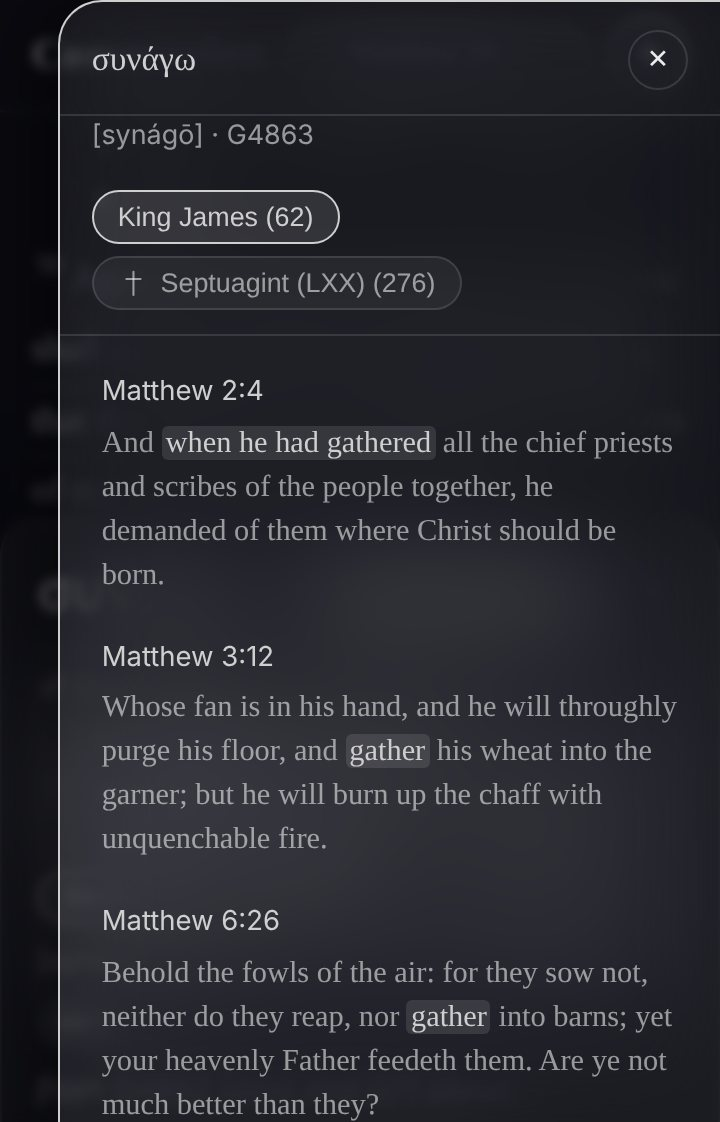
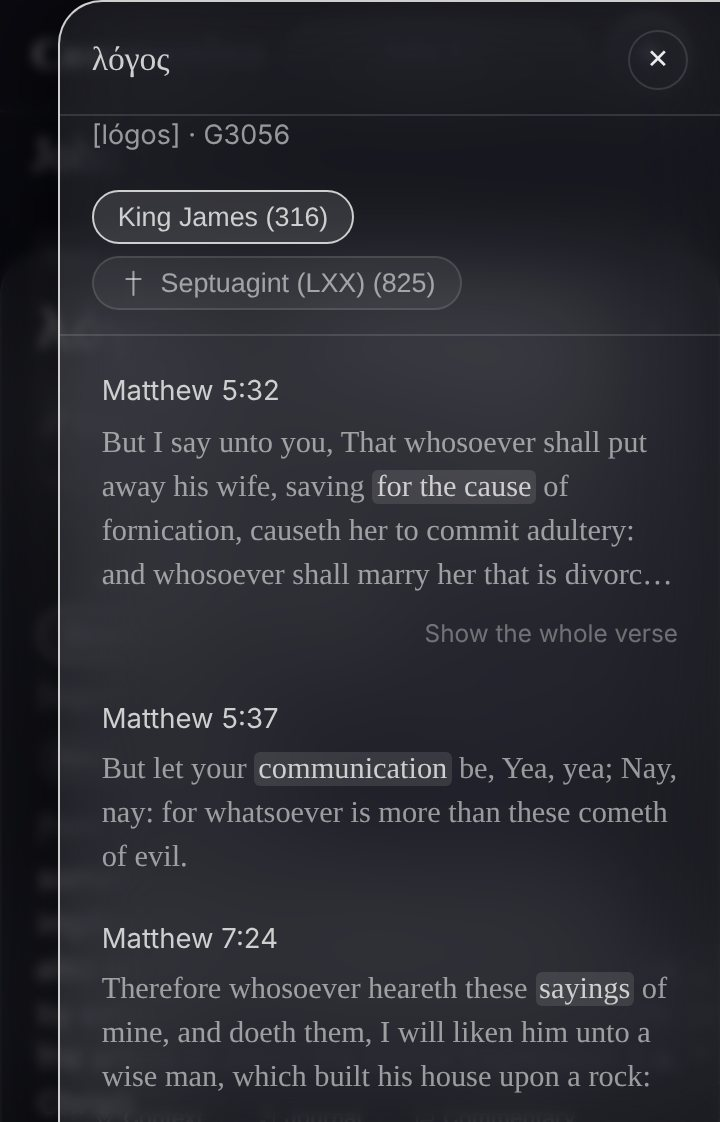
John 1:1 in place of Matthew 18:20, and the AI in the tour
Communion's founding verse was Matthew 18:20, chosen for an app built
around gathering. It is now a place to read and study on your own, so the
verse it stands on is John 1:1, everywhere the old one was:

- The About page opens on it, in the King James and the Reina Valera.
  The keys are verse.founding and verse.foundingRef, not named for a book.
- The tagline goes from "Read the Word. Gather in His name." to "Read the
  Word. Study the Word." (Lee la Palabra. Estudia la Palabra.), in the
  welcome, the tour page, the page metadata and the web app manifest.
- The About footer no longer speaks of two or three gathering.
- New readers' walls and their "Communion" collection start with John
  1:1 instead of Matthew 18:20. Walls and collections already seeded are
  left as they are.
- Both share images are redrawn with the new tagline, and the tour's with
  John 1:1 quoted.
- The README's opening describes the app as it is now.

The tour grows from ten screens to thirteen, with the AI in the three
places it appears: Ask the scholars (Augustine on John 1:1, in
Commentary), Ask about a verse (from Compare) and Illuminated Search. The
reader, study, lexicon and concordance screens are re-shot on John 1:1 to
match, the lexicon and concordance now on logos. All seven are captured
in each theme. The tour page's descriptions and the share text mention
the questions Claude answers.

The AI screens were captured against a stand-in for the API, not Claude
[…]

diff --git a/lib/i18n.tsx b/lib/i18n.tsx
@@ -7,7 +7,7 @@ export type Lang = "en" | "es";
 
 const dictionaries = {
   en: {
-    "app.tagline": "Read the Word. Gather in His name.",
+    "app.tagline": "Read the Word. Study the Word.",
     "nav.reader": "The Word",
     "nav.discover": "Home",
     "settings.title": "Settings",
@@ -225,13 +225,13 @@ const dictionaries = {
       "Read the Word in multiple translations (King James by default, Reina Valera 1909 in Spanish), search it, resize it, and follow it wherever a passage link takes you. Then stay with it: open a word to its original, keep a verse with a note, and walk a plan a day at a time.",
     "tour.share": "Share this demo",
     "tour.shareText":
-      "Take a look at Communion — the whole Bible with real study tools: the Hebrew and Greek, commentary and maps.",
+      "Take a look at Communion — the whole Bible with real study tools: the Hebrew and Greek, commentary and maps, and questions answered by Claude.",
     "welcome.title": "Welcome to Communion",
     "welcome.lede":
       "A Bible app for reading and studying the Word. Here is what it can do — have a look, then step in.",
     "welcome.begin": "Begin reading",
     "welcome.more": "The full story, on the About page →",
-    "about.tourTitle": "A tour, in ten screens",
+    "about.tourTitle": "A tour, in thirteen screens",
     "about.tourHint": "Every screen here is the app itself, not a mockup.",
     "about.tourReader": "The Word",
     "about.tourReaderDesc": "Scripture set like a book, reading on from chapter into chapter.",
@@ -244,6 +244,13 @@ const dictionaries = {
     "about.tourCommentary": "Commentary",
     "about.tourCommentaryDesc":
       "Matthew Henry on every chapter, and Spurgeon’s Treasury of David on the Psalms.",
+    "about.tourScholars": "Ask the scholars",
+    "about.tourScholarsDesc":
+      "Choose Augustine, Luther, Spurgeon or four more, and ask about the passage. Claude answers in his manner.",
+    "about.tourAskVerse": "Ask about a verse",
+    "about.tourAskVerseDesc": "From Compare, ask Claude what a verse means, its setting, or why the translations differ.",
+    "about.tourAiSearch": "Illuminated Search",
+    "about.tourAiSearchDesc": "Describe what you are looking for, and Claude finds the passages, in your own translation.",
     "about.tourMaps": "Maps in context",
     "about.tourMapsDesc":
       "Where the chapter happened, and the places it names — tap one to find its verse.",
@@ -302,7 +309,7 @@ const dictionaries = {
       "Claude can be wrong, and sounds just as sure when it is. Weigh what it says against Scripture, as the Bereans did, and treat it as a companion in study rather than an authority — never as a stand-in for a pastor, or for help when you need it.",
     "about.aiPrivacy":
       "Your questions are sent to Anthropic to be answered. Communion keeps none of them: a conversation lives on your device only for as long as the app is open, unless you save an answer to the verse’s note. All the app writes down is how many questions you asked, and what they cost to answer.",
-    "about.footer": "Built so that two or three — anywhere on earth — can gather in His name.",
+    "about.footer": "Built for time alone with the Word — to read it slowly, and to know the One it speaks of.",
     "discover.title": "Home",
     "discover.tabScripture": "Discover",
     "discover.subtitleScripture":
@@ -611,8 +618,8 @@ const dictionaries = {
     "search.close": "Close results",
     "search.searchedIn":
       "Searched the {name} — this translation is read a chapter at a time and cannot be searched whole.",
-    "verse.matthew": "For where two or three are gathered together in my name, there am I in the midst of them.",
-    "verse.matthewRef": "Matthew 18:20",
+    "verse.founding": "In the beginning was the Word, and the Word was with God, and the Word was God.",
+    "verse.foundingRef": "John 1:1",
     "common.done": "Done",
     "common.close": "Close",
     "common.notNow": "Not now",
@@ -671,7 +678,7 @@ const dictionaries = {
       "Matthew Henry and Spurgeon wrote in English, and their commentary is shown as they wrote it.",
   },
   es: {
-    "app.tagline": "Lee la Palabra. Congrégate en Su nombre.",
+    "app.tagline": "Lee la Palabra. Estudia la Palabra.",
     "nav.reader": "La Palabra",
     "nav.discover": "Inicio",
     "settings.title": "Ajustes",
@@ -891,13 +898,13 @@ const dictionaries = {
       "Lee la Palabra en varias traducciones (King James por defecto, Reina Valera 1909 en español), búscala, ajusta su tamaño y síguela adonde te lleve cada pasaje. Luego quédate en ella: abre una palabra hasta su original, guarda un versículo con una nota y recorre un plan día a día.",
     "tour.share": "Comparte esta demo",
     "tour.shareText":
-      "Mira Communion — la Biblia completa con herramientas de estudio de verdad: el hebreo y el griego, comentario y mapas.",
+      "Mira Communion — la Biblia completa con herramientas de estudio de verdad: el hebreo y el griego, comentario y mapas, y preguntas respondidas por Claude.",
     "welcome.title": "Bienvenido a Communion",
     "welcome.lede":
       "Una aplicación bíblica para leer y estudiar la Palabra. Esto es lo que puede hacer — míralo, y luego entra.",
     "welcome.begin": "Comenzar a leer",
     "welcome.more": "La historia completa, en Acerca de →",
-    "about.tourTitle": "Un recorrido en diez pantallas",
+    "about.tourTitle": "Un recorrido en trece pantallas",
     "about.tourHint": "Cada pantalla es la aplicación misma, no una maqueta.",
     "about.tourReader": "La Palabra",
     "about.tourReaderDesc": "La Escritura compuesta como un libro: la lectura sigue de capítulo en capítulo.",
@@ -910,6 +917,13 @@ const dictionaries = {
     "about.tourCommentary": "Comentario",
     "about.tourCommentaryDesc":
       "Matthew Henry en cada capítulo, y el Tesoro de David de Spurgeon en los Salmos.",
+    "about.tourScholars": "Pregunta a los eruditos",
+    "about.tourScholarsDesc":
+      "Elige a Agustín, Lutero, Spurgeon u otros cuatro, y pregunta sobre el pasaje. Claude responde a su manera.",
+    "about.tourAskVerse": "Pregunta sobre un versículo",
+    "about.tourAskVerseDesc": "Desde Comparar, pregúntale a Claude qué significa un versículo, su contexto o por qué difieren las traducciones.",
+    "about.tourAiSearch": "Búsqueda iluminada",
+    "about.tourAiSearchDesc": "Describe lo que buscas y Claude encuentra los pasajes, en tu propia traducción.",
     "about.tourMaps": "Mapas en contexto",
     "about.tourMapsDesc":
       "Dónde sucedió el capítulo y los lugares que nombra: toca uno para ir a su versículo.",
@@ -969,7 +983,7 @@ const dictionaries = {
       "Claude puede equivocarse, y suena igual de seguro cuando lo hace. Examina lo que dice a la luz de la Escritura, como los de Berea, y tómalo como un compañero de estudio, no como una autoridad; nunca como sustituto de un pastor, ni de la ayuda que necesites.",
     "about.aiPrivacy":
       "Tus preguntas se envían a Anthropic para que sean respondidas. Communion no guarda ninguna: la conversación vive en tu dispositivo solo mientras la app está abierta, salvo que guardes una respuesta en la nota del versículo. Lo único que la app anota es cuántas preguntas hiciste y lo que costó responderlas.",
-    "about.footer": "Creada para que dos o tres — en cualquier lugar del mundo — se congreguen en Su nombre.",
+    "about.footer": "Creada para el tiempo a solas con la Palabra: para leerla despacio y conocer a Aquel de quien habla.",
     "discover.title": "Inicio",
     "discover.tabScripture": "Descubrir",
     "discover.subtitleScripture":
@@ -1278,8 +1292,8 @@ const dictionaries = {
     "search.searchedIn":
       "Se buscó en la {name} — esta traducción se lee capítulo por capítulo y no puede buscarse entera.",
     "search.close": "Cerrar resultados",
-    "verse.matthew": "Porque donde están dos o tres congregados en mi nombre, allí estoy en medio de ellos.",
-    "verse.matthewRef": "Mateo 18:20",
+    "verse.founding": "En el principio era el Verbo, y el Verbo era con Dios, y el Verbo era Dios.",
+    "verse.foundingRef": "Juan 1:1",
     "common.done": "Listo",
     "common.close": "Cerrar",
     "common.notNow": "Ahora no",

diff --git a/app/tour/page.tsx b/app/tour/page.tsx
@@ -2,7 +2,7 @@
 //
 // This is the page the share button hands out. Somebody arriving from a
 // social feed gets the tour without the app asking anything of them first —
-// the wordmark, the ten screens, and a door into the reader. The metadata
+// the wordmark, the thirteen screens, and a door into the reader. The metadata
 // below is most of the point: it is what makes the link unfurl on a feed as
 // a picture of the app instead of a bare URL.
 //
@@ -13,21 +13,21 @@ import type { Metadata } from "next";
 import TourPageBody from "@/components/TourPage";
 
 export const metadata: Metadata = {
-  title: "Communion — a tour in ten screens",
+  title: "Communion — a tour in thirteen screens",
   description:
-    "A Bible app for reading and studying the Word. The whole Bible with word-level study tools, commentary and maps, a journal, reading plans and a private prayer list. See it in ten screens.",
+    "A Bible app for reading and studying the Word. The whole Bible with word-level study tools, commentary and maps, a journal, reading plans and a private prayer list, and questions answered by Claude. See it in thirteen screens.",
   openGraph: {
-    title: "Communion — Read the Word. Gather in His name.",
+    title: "Communion — Read the Word. Study the Word.",
     description:
-      "The whole Bible with word-level study tools, commentary and maps, and a journal for what you find. A tour in ten screens.",
+      "The whole Bible with word-level study tools, commentary and maps, questions answered by Claude, and a journal for what you find. A tour in thirteen screens.",
     images: ["/tour/og.jpg"],
     type: "website",
   },
   twitter: {
     card: "summary_large_image",
-    title: "Communion — Read the Word. Gather in His name.",
+    title: "Communion — Read the Word. Study the Word.",
     description:
-      "The whole Bible with word-level study tools, commentary and maps, and a journal for what you find. A tour in ten screens.",
+      "The whole Bible with word-level study tools, commentary and maps, questions answered by Claude, and a journal for what you find. A tour in thirteen screens.",
     images: ["/tour/og.jpg"],
   },
 };

diff --git a/lib/defaultWall.ts b/lib/defaultWall.ts
@@ -10,8 +10,8 @@ import { WALL_MAX, type WallEntry } from "@/lib/wall";
  * feature in the time it takes to read them — and understands it as something
  * to add to rather than something to set up.
  *
- * These four, and not four at random. Matthew 18:20 is the verse this app is
- * named for and built on. Galatians 6:10 is what the reading is supposed to
+ * These four, and not four at random. John 1:1 is the verse this app is built
+ * on: the Word it is for reading is the One it speaks of. Galatians 6:10 is what the reading is supposed to
  * turn into, as we have opportunity. John 3:16 is the one verse anybody
  * arriving already knows, which makes it the one that says "yes, this is that
  * book". And Philippians 3:13-14 is kept as the run it is, because the
@@ -27,7 +27,7 @@ interface SeedVerse {
 }
 
 export const WALL_VERSES: SeedVerse[] = [
-  { b: 40, c: 18, v: 20 }, // Matthew — where two or three are gathered
+  { b: 43, c: 1, v: 1 }, // John — in the beginning was the Word
   { b: 48, c: 6, v: 10 }, // Galatians — as we have therefore opportunity
   { b: 43, c: 3, v: 16 }, // John — for God so loved the world
   { b: 50, c: 3, v: 13, end: 14 }, // Philippians — I press toward the mark

diff --git a/app/layout.tsx b/app/layout.tsx
@@ -15,18 +15,18 @@ import "./globals.css";
 
 export const metadata: Metadata = {
   metadataBase: new URL("https://communion-mu.vercel.app"),
-  title: "Communion — Read the Word. Gather in His name.",
+  title: "Communion — Read the Word. Study the Word.",
   description:
-    "A Bible app for reading and studying the Word: Scripture in multiple translations and languages, the Hebrew and Greek behind it, a journal and reading plans. Matthew 18:20.",
+    "A Bible app for reading and studying the Word: Scripture in multiple translations and languages, the Hebrew and Greek behind it, a journal and reading plans. John 1:1.",
   openGraph: {
     title: "Communion",
-    description: "Read the Word. Gather in His name.",
+    description: "Read the Word. Study the Word.",
     images: ["/og.png"],
   },
   twitter: {
     card: "summary_large_image",
     title: "Communion",
-    description: "Read the Word. Gather in His name.",
+    description: "Read the Word. Study the Word.",
     images: ["/og.png"],
   },
   appleWebApp: {

diff --git a/components/TourStrip.tsx b/components/TourStrip.tsx
@@ -1,6 +1,6 @@
 "use client";
 
-// The ten-screen tour, as a strip that any page can shelve.
+// The tour, thirteen screens, as a strip that any page can shelve.
 //
 // It began life inside the About page and was pulled out the day the welcome
 // screen wanted it too. One list, one markup, so the two places that show the
@@ -28,6 +28,10 @@ const SLIDES: Array<{ img: string; w: number; h: number; key: string }> = [
   { img: "lexicon", w: 720, h: 772, key: "tourLexicon" },
   { img: "concordance", w: 720, h: 1122, key: "tourConcordance" },
   { img: "commentary", w: 720, h: 1024, key: "tourCommentary" },
+  // the AI, in the three places it appears
+  { img: "scholars", w: 720, h: 1096, key: "tourScholars" },
+  { img: "askverse", w: 720, h: 1096, key: "tourAskVerse" },
+  { img: "aisearch", w: 720, h: 1120, key: "tourAiSearch" },
   { img: "maps", w: 720, h: 1042, key: "tourMaps" },
   { img: "redletters", w: 720, h: 1066, key: "tourRed" },
   { img: "devotional", w: 720, h: 1020, key: "tourDevotional" },

diff --git a/app/manifest.ts b/app/manifest.ts
@@ -5,7 +5,7 @@ export default function manifest(): MetadataRoute.Manifest {
     name: "Communion",
     short_name: "Communion",
     description:
-      "Read the Word. Gather in His name. A Bible app for reading and studying Scripture, with the Hebrew and Greek a tap away.",
+      "Read the Word. Study the Word. A Bible app for reading and studying Scripture, with the Hebrew and Greek a tap away.",
     start_url: "/",
     display: "standalone",
     background_color: "#101113",

diff --git a/components/AboutCommunion.tsx b/components/AboutCommunion.tsx
@@ -12,8 +12,8 @@ export default function AboutCommunion() {
       <h1 className="page-title">{t("settings.about")}</h1>
       <div className="glass card about-card">
         <blockquote className="founding-verse">
-          {t("verse.matthew")}
-          <cite>{t("verse.matthewRef")}</cite>
+          {t("verse.founding")}
+          <cite>{t("verse.foundingRef")}</cite>
         </blockquote>
         <p>{t("about.p1")}</p>
         <p>{t("about.p2")}</p>

diff --git a/components/Welcome.tsx b/components/Welcome.tsx
@@ -4,7 +4,7 @@
 //
 // Once, and only once: a guest arriving for the first time, or somebody who
 // has just signed up, gets the tour before they get the app — the wordmark,
-// one line about what this is, the ten screens, and a door. Everyone else
+// one line about what this is, the thirteen screens, and a door. Everyone else
 // opens straight onto Scripture, every time, because a welcome that keeps
 // welcoming is a doorman who won't let you in.
 //

diff --git a/lib/defaultCollections.ts b/lib/defaultCollections.ts
@@ -51,11 +51,11 @@ export const GOSPEL_TRACK: SeedVerse[] = [
 
 export const COMMUNION_VERSES: SeedVerse[] = [
   {
-    b: 40,
-    c: 18,
-    v: 20,
-    label: "Where 2 or 3 are gathered",
-    labelEs: "Donde dos o tres se reúnen",
+    b: 43,
+    c: 1,
+    v: 1,
+    label: "In the beginning was the Word",
+    labelEs: "En el principio era el Verbo",
   },
   {
     // kept as the run it is: verse 14 asks and verse 15 answers, and the

diff --git a/README.md b/README.md
@@ -1,26 +1,31 @@
 # Communion
 
-> *"For where two or three are gathered together in my name, there am I in the midst of them."* — Matthew 18:20 (KJV)
+> *"In the beginning was the Word, and the Word was with God, and the Word was God."* — John 1:1 (KJV)
 
-**Communion** is a Bible app with a social heart: read Scripture in multiple translations and languages, then gather with other believers in **Churches** — small groups that schedule and share co-worship sessions together.
+**Communion** is a Bible app for reading and studying the Word on your own: Scripture set like a book, the Hebrew and Greek a tap away, and a journal that keeps what you find.
 
 ## Core Features
 
-### 📖 Bible Reader
+### 📖 The Word
 - Multiple translations, defaulting to the **King James Version (KJV)**
 - Public-domain-first translation set (KJV; Reina-Valera 1909 for Spanish)
-- Full UI language toggle — **English and Spanish** at launch
-- Mobile and desktop responsive, glassmorphism ("sleek glass polish") UI
+- Full UI language toggle — **English and Spanish**
+- Text size, boldness and typeface, and three themes: Illuminated, Parchment and grey
 
-### ⛪ Churches (Social)
-- Any user can found a Church — a small group of believers gathered in His name (Matthew 18:20 is displayed at Church creation and on every Church home page)
-- Invite others by **email** or by sharing an invite link to **Facebook Messenger**
-- Invite links are tokenized, expiring, and single-church scoped
+### 🔎 Study mode
+- The Hebrew and Greek behind each word, with Strong's, Brown-Driver-Briggs and Abbott-Smith
+- A concordance, cross-references, maps in context, and translations compared verse by verse
+- Matthew Henry on every chapter, and Spurgeon's Treasury of David on the Psalms
 
-### 📅 Co-Worship Calendar
-- Each Church has a shared calendar for scheduling worship sessions together
-- **Pre-built session types**: Bible Study, Prayer, Communion, Praise & Worship
-- RSVP and reminders for members
+### ✨ AI (Claude, by Anthropic), turned on per reader
+- Ask about a verse, from Compare
+- Ask the scholars, from Commentary: seven teachers of the church, answered in their manner
+- Illuminated Search: find verses by describing them
+
+### 📓 Journal and Home
+- Bookmarks, notes and collections; reading plans with reminders, including plans through the commentaries
+- A wall of verses and a private prayer list
+- Offline downloads of Scripture and the study tools
 
 ## Tech Stack (target)
 
